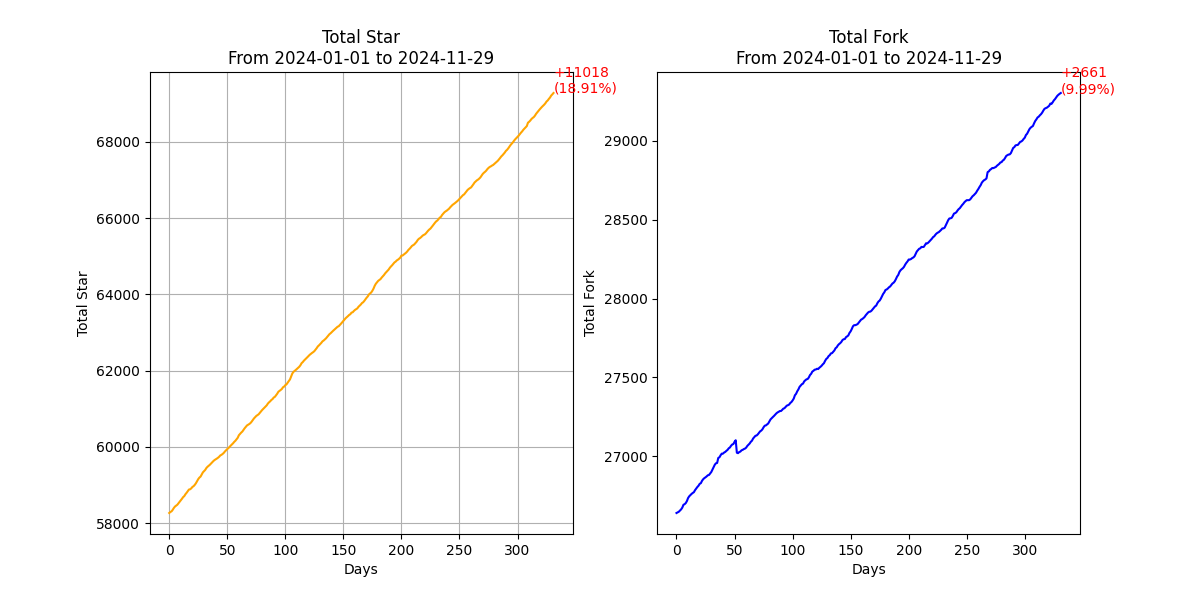
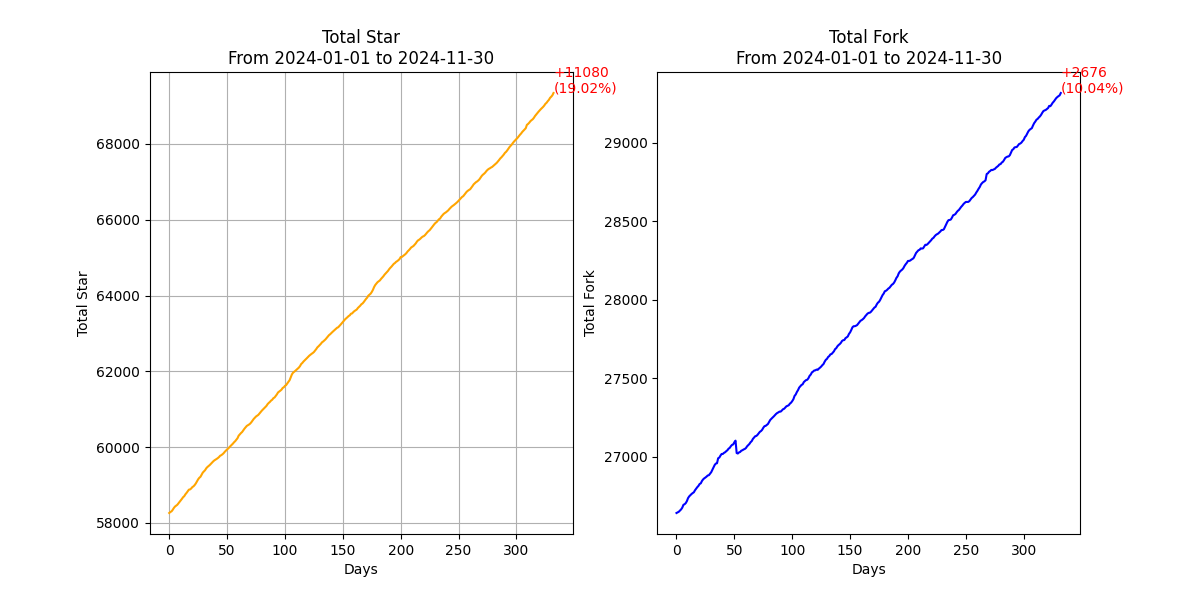
Update Espressif Systems Github Star Rank - 2024-11-30

diff --git a/README.md b/README.md
@@ -1,6 +1,6 @@
-# Espressif Systems Github Star Rank 2024-11-29
+# Espressif Systems Github Star Rank 2024-11-30
 
-## Total Star 🌟: 69343, Total Fork 🌳: 29317
+## Total Star 🌟: 69374, Total Fork 🌳: 29321
 
 [![Update Espressif Systems Github Star Rank](https://github.com/leeebo/espressif_star_counter/actions/workflows/update_rank.yml/badge.svg)](https://github.com/leeebo/espressif_star_counter/actions/workflows/update_rank.yml)
 
@@ -8,62 +8,62 @@
 
 | Repository | Stars | Forks | Description |
 |------------|-------|-------|-------------|
-| [esp-idf](https://github.com/espressif/esp-idf) | 13860 | 7323 | Espressif IoT Development Framework. Official development framework for Espressif SoCs. |
-| [arduino-esp32](https://github.com/espressif/arduino-esp32) | 13751 | 7433 | Arduino core for the ESP32 |
-| [esptool](https://github.com/espressif/esptool) | 5602 | 1386 | Espressif SoC serial bootloader utility |
+| [esp-idf](https://github.com/espressif/esp-idf) | 13868 | 7323 | Espressif IoT Development Framework. Official development framework for Espressif SoCs. |
+| [arduino-esp32](https://github.com/espressif/arduino-esp32) | 13754 | 7435 | Arduino core for the ESP32 |
+| [esptool](https://github.com/espressif/esptool) | 5604 | 1386 | Espressif SoC serial bootloader utility |
 | [ESP8266_RTOS_SDK](https://github.com/espressif/ESP8266_RTOS_SDK) | 3347 | 1565 | Latest ESP8266 SDK based on FreeRTOS, esp-idf style. |
 | [esp-iot-solution](https://github.com/espressif/esp-iot-solution) | 1991 | 788 | Espressif IoT Library. IoT Device Drivers, Documentations and Solutions. |
-| [esp32-camera](https://github.com/espressif/esp32-camera) | 1946 | 645 | None |
+| [esp32-camera](https://github.com/espressif/esp32-camera) | 1947 | 647 | None |
 | [esp-who](https://github.com/espressif/esp-who) | 1701 | 468 | Face detection and recognition framework |
-| [esp-adf](https://github.com/espressif/esp-adf) | 1564 | 691 | Espressif Audio Development Framework |
-| [vscode-esp-idf-extension](https://github.com/espressif/vscode-esp-idf-extension) | 1076 | 306 | Visual Studio Code extension for ESP-IDF projects |
+| [esp-adf](https://github.com/espressif/esp-adf) | 1565 | 691 | Espressif Audio Development Framework |
+| [vscode-esp-idf-extension](https://github.com/espressif/vscode-esp-idf-extension) | 1077 | 306 | Visual Studio Code extension for ESP-IDF projects |
 | [ESP8266_NONOS_SDK](https://github.com/espressif/ESP8266_NONOS_SDK) | 931 | 536 | ESP8266 nonOS SDK |
-| [esp-at](https://github.com/espressif/esp-at) | 916 | 833 | AT application for ESP32/ESP32-C2/ESP32-C3/ESP32-C6/ESP8266 |
-| [esp-drone](https://github.com/espressif/esp-drone) | 833 | 243 | Mini Drone/Quadcopter Firmware for ESP32 and ESP32-S Series SoCs. |
+| [esp-at](https://github.com/espressif/esp-at) | 917 | 833 | AT application for ESP32/ESP32-C2/ESP32-C3/ESP32-C6/ESP8266 |
+| [esp-drone](https://github.com/espressif/esp-drone) | 835 | 243 | Mini Drone/Quadcopter Firmware for ESP32 and ESP32-S Series SoCs. |
 | [esp-box](https://github.com/espressif/esp-box) | 811 | 191 | The ESP-BOX is a new generation AIoT development platform released by Espressif Systems. |
 | [esp-mdf](https://github.com/espressif/esp-mdf) | 780 | 253 | Espressif Mesh Development Framework, limited maintain, recommend to use https://github.com/espressif/esp-mesh-lite |
-| [kicad-libraries](https://github.com/espressif/kicad-libraries) | 775 | 109 | KiCad libraries for Espressif SoCs, modules, and DevKits. |
+| [kicad-libraries](https://github.com/espressif/kicad-libraries) | 776 | 109 | KiCad libraries for Espressif SoCs, modules, and DevKits. |
 | [ESP8266_MP3_DECODER](https://github.com/espressif/ESP8266_MP3_DECODER) | 745 | 190 | A demo that should be run with ESP8266 Non-OS SDK |
-| [esp-csi](https://github.com/espressif/esp-csi) | 722 | 111 | Applications based on Wi-Fi CSI (Channel state information), such as indoor positioning, human detection |
+| [esp-csi](https://github.com/espressif/esp-csi) | 723 | 111 | Applications based on Wi-Fi CSI (Channel state information), such as indoor positioning, human detection |
 | [esp-hosted](https://github.com/espressif/esp-hosted) | 713 | 170 | Hosted Solution (Linux/MCU) with ESP32 (Wi-Fi + BT + BLE) |
 | [esp-matter](https://github.com/espressif/esp-matter) | 706 | 161 | Espressif's SDK for Matter |
 | [esp-apple-homekit-adk](https://github.com/espressif/esp-apple-homekit-adk) | 624 | 64 | This is a port for Apple's Open Source HomeKit ADK |
 | [esp-mqtt](https://github.com/espressif/esp-mqtt) | 614 | 258 | ESP32 mqtt component |
 | [esp-skainet](https://github.com/espressif/esp-skainet) | 589 | 134 | Espressif intelligent voice assistant |
 | [esp-dl](https://github.com/espressif/esp-dl) | 580 | 122 | Espressif deep-learning library for AIoT applications |
-| [esp-sr](https://github.com/espressif/esp-sr) | 577 | 106 | Speech recognition |
+| [esp-sr](https://github.com/espressif/esp-sr) | 578 | 106 | Speech recognition |
 | [esp-homekit-sdk](https://github.com/espressif/esp-homekit-sdk) | 569 | 109 | None |
+| [esp32-nesemu](https://github.com/espressif/esp32-nesemu) | 551 | 173 | Proof-of-concept NES emulator for the ESP32 |
 | [esp-now](https://github.com/espressif/esp-now) | 550 | 96 | A connectionless Wi-Fi communication protocol |
-| [esp32-nesemu](https://github.com/espressif/esp32-nesemu) | 550 | 173 | Proof-of-concept NES emulator for the ESP32 |
 | [esp-dsp](https://github.com/espressif/esp-dsp) | 490 | 92 | DSP library for ESP-IDF |
 | [ESP8266_AT](https://github.com/espressif/ESP8266_AT) | 471 | 227 | This project is not maintained, please use https://github.com/espressif/esp-at. |
-| [esp-rainmaker](https://github.com/espressif/esp-rainmaker) | 466 | 154 | ESP RainMaker Agent for firmware development |
+| [esp-rainmaker](https://github.com/espressif/esp-rainmaker) | 467 | 154 | ESP RainMaker Agent for firmware development |
 | [rust-esp32-example](https://github.com/espressif/rust-esp32-example) | 447 | 36 | Example of Rust integration into an ESP-IDF project, for ESP32 series of chips |
-| [esp-tflite-micro](https://github.com/espressif/esp-tflite-micro) | 396 | 85 | TensorFlow Lite Micro for Espressif Chipsets |
+| [esp-tflite-micro](https://github.com/espressif/esp-tflite-micro) | 397 | 85 | TensorFlow Lite Micro for Espressif Chipsets |
 | [esp-serial-flasher](https://github.com/espressif/esp-serial-flasher) | 388 | 112 | Library for flashing Espressif SoCs from other MCUs. |
 | [esp-dev-kits](https://github.com/espressif/esp-dev-kits) | 369 | 184 | Docs, Schematics, Factory Firmwares for ESP Development Kits |
-| [openocd-esp32](https://github.com/espressif/openocd-esp32) | 362 | 132 | OpenOCD branch with ESP32 JTAG support |
+| [openocd-esp32](https://github.com/espressif/openocd-esp32) | 363 | 132 | OpenOCD branch with ESP32 JTAG support |
 | [esp-aliyun](https://github.com/espressif/esp-aliyun) | 340 | 151 | Aliyun Iotkit-embedded, support esp32 & esp8266. |
 | [esp-idf-template](https://github.com/espressif/esp-idf-template) | 335 | 200 | Template application for https://github.com/espressif/esp-idf |
-| [idf-eclipse-plugin](https://github.com/espressif/idf-eclipse-plugin) | 313 | 121 | Espressif-IDE (based on Eclipse CDT) for ESP-IDF CMake based projects 4.x and above |
-| [esp-usb-bridge](https://github.com/espressif/esp-usb-bridge) | 300 | 34 | USB to UART&JTAG bridge, implemented on ESP32-S2 or ESP32-S3 |
+| [idf-eclipse-plugin](https://github.com/espressif/idf-eclipse-plugin) | 313 | 121 | Espressif-IDE (ESP-IDF Eclipse Plugin) for ESP-IDF CMake based projects 5.x and above |
+| [esp-usb-bridge](https://github.com/espressif/esp-usb-bridge) | 301 | 34 | USB to UART&JTAG bridge, implemented on ESP32-S2 or ESP32-S3 |
 | [esp-va-sdk](https://github.com/espressif/esp-va-sdk) | 294 | 83 | Espressif's Voice Assistant SDK: Alexa, Google Voice Assistant, Google DialogFlow |
 | [esptool-js](https://github.com/espressif/esptool-js) | 291 | 108 | Javascript implementation of flasher tool for Espressif chips, running in web browser using WebSerial. |
 | [esp-aws-iot](https://github.com/espressif/esp-aws-iot) | 271 | 164 | AWS IoT SDK for ESP32 based chipsets |
-| [esp-bsp](https://github.com/espressif/esp-bsp) | 203 | 105 | Board support components for Espressif development boards |
+| [esp-bsp](https://github.com/espressif/esp-bsp) | 204 | 105 | Board support components for Espressif development boards |
 | [esp-idf-provisioning-android](https://github.com/espressif/esp-idf-provisioning-android) | 203 | 134 | Android Provisioning application for ESP-IDF Unified provisioning |
 | [esp32-doom](https://github.com/espressif/esp32-doom) | 200 | 39 | A proof-of-concept port of PrBoom to the ESP32. Needs psram hardware. |
 | [esp-protocols](https://github.com/espressif/esp-protocols) | 198 | 135 | Collection of ESP-IDF components related to networking protocols |
 | [ESP31_RTOS_SDK](https://github.com/espressif/ESP31_RTOS_SDK) | 188 | 58 | ESP31B SDK based on FreeRTOS. For ESP32 please see http://github.com/espressif/esp-idf |
 | [esp-azure](https://github.com/espressif/esp-azure) | 178 | 93 | SDK to connect ESP8266 and ESP32 to Microsoft Azure IoT services |
+| [esp-zigbee-sdk](https://github.com/espressif/esp-zigbee-sdk) | 178 | 31 | Espressif Zigbee SDK |
 | [esp-jumpstart](https://github.com/espressif/esp-jumpstart) | 177 | 58 | Jumpstart from concept to production |
-| [esp-zigbee-sdk](https://github.com/espressif/esp-zigbee-sdk) | 177 | 31 | Espressif Zigbee SDK |
 | [esp32-wifi-lib](https://github.com/espressif/esp32-wifi-lib) | 167 | 71 | ESP32 WiFi stack precompiled libraries |
 | [esp-iot-bridge](https://github.com/espressif/esp-iot-bridge) | 165 | 54 | A smart bridge to make both ESP and the other MCU or smart device can access the Internet. |
 | [esp-gdbstub](https://github.com/espressif/esp-gdbstub) | 162 | 38 | None |
 | [idf-extra-components](https://github.com/espressif/idf-extra-components) | 153 | 93 | Additional components for ESP-IDF, maintained by Espressif |
 | [esp32-arduino-lib-builder](https://github.com/espressif/esp32-arduino-lib-builder) | 152 | 170 | None |
-| [esp-nn](https://github.com/espressif/esp-nn) | 145 | 24 | Optimised Neural Network functions for Espressif chipsets |
+| [esp-nn](https://github.com/espressif/esp-nn) | 144 | 24 | Optimised Neural Network functions for Espressif chipsets |
 | [esp-google-iot](https://github.com/espressif/esp-google-iot) | 143 | 44 | Google Cloud IoT SDK as an ESP-IDF Component |
 | [esp-idf-provisioning-ios](https://github.com/espressif/esp-idf-provisioning-ios) | 137 | 63 | None |
 | [esp-mesh-lite](https://github.com/espressif/esp-mesh-lite) | 135 | 23 | A lite version Wi-Fi Mesh, each node can access the network over the IP layer. |
@@ -85,10 +85,10 @@
 | [esp32c3-direct-boot-example](https://github.com/espressif/esp32c3-direct-boot-example) | 69 | 18 | Example of ESP32-C3 (rev. 3 and later) "direct boot" feature. |
 | [esp8266-nonos-sample-code](https://github.com/espressif/esp8266-nonos-sample-code) | 66 | 41 | None |
 | [esp-adf-libs](https://github.com/espressif/esp-adf-libs) | 61 | 41 | None |
+| [esp-brookesia](https://github.com/espressif/esp-brookesia) | 59 | 10 | ESP-Brookesia is a human-machine interaction development framework designed for AIoT devices. |
 | [esp-moonlight](https://github.com/espressif/esp-moonlight) | 59 | 35 | None |
-| [esp-brookesia](https://github.com/espressif/esp-brookesia) | 58 | 10 | ESP-Brookesia is a human-machine interaction development framework designed for AIoT devices. |
 | [freertos-gdb](https://github.com/espressif/freertos-gdb) | 58 | 9 | Python module for operating with freeRTOS kernel objects in GDB |
-| [svd](https://github.com/espressif/svd) | 57 | 2 | SVD files for Espressif devices |
+| [svd](https://github.com/espressif/svd) | 58 | 2 | SVD files for Espressif devices |
 | [openocd-on-esp32](https://github.com/espressif/openocd-on-esp32) | 56 | 6 | OpenOCD port running on ESP32-S3 microcontrollers |
 | [xtensa-isa-doc](https://github.com/espressif/xtensa-isa-doc) | 51 | 4 | None |
 | [esp-rainmaker-ios](https://github.com/espressif/esp-rainmaker-ios) | 48 | 25 | ESP RainMaker iOS app sources |
@@ -126,9 +126,9 @@
 | [esp32c3-bt-lib](https://github.com/espressif/esp32c3-bt-lib) | 17 | 7 | ESP32-C3/S3 Bluetooth stack (below HCI layer) precompiled libraries |
 | [esp-afr-sdk](https://github.com/espressif/esp-afr-sdk) | 16 | 17 | Espressif Base SDK for (Amazon) FreeRTOS |
 | [esp32-quake](https://github.com/espressif/esp32-quake) | 16 | 0 | Quake for the ESP32-P4 evaluation board |
+| [idf-build-apps](https://github.com/espressif/idf-build-apps) | 16 | 6 | Tool to build multiple IDF applications in CI |
 | [idf-web-ide](https://github.com/espressif/idf-web-ide) | 16 | 5 | cloud/ desktop IDE for ESP-IDF based on Eclipse Theia |
 | [esp-rom-elfs](https://github.com/espressif/esp-rom-elfs) | 15 | 3 | Espressif ROM binaries |
-| [idf-build-apps](https://github.com/espressif/idf-build-apps) | 15 | 6 | Tool to build multiple IDF applications in CI |
 | [kconfig-frontends](https://github.com/espressif/kconfig-frontends) | 15 | 9 | Fork of kconfig-frontends project with some modifications for use with ESP-IDF |
 | [qrcode-demo](https://github.com/espressif/qrcode-demo) | 15 | 4 | QR code recognition example |
 | [esp-hal-components](https://github.com/espressif/esp-hal-components) | 14 | 6 | HAL (hardware abstraction layer) components for Espressif chips |

diff --git a/rank_history/esp_rank_2024-11-29.md b/rank_history/esp_rank_2024-11-29.md
@@ -1,17 +1,19 @@
 # Espressif Systems Github Star Rank 2024-11-29
 
-## Total Star 🌟: 69333, Total Fork 🌳: 29314
+## Total Star 🌟: 69343, Total Fork 🌳: 29317
 
 [![Update Espressif Systems Github Star Rank](https://github.com/leeebo/espressif_star_counter/actions/workflows/update_rank.yml/badge.svg)](https://github.com/leeebo/espressif_star_counter/actions/workflows/update_rank.yml)
 
+![](stats/stats_total_star_fork_2024.png)
+
 | Repository | Stars | Forks | Description |
 |------------|-------|-------|-------------|
-| [esp-idf](https://github.com/espressif/esp-idf) | 13855 | 7323 | Espressif IoT Development Framework. Official development framework for Espressif SoCs. |
+| [esp-idf](https://github.com/espressif/esp-idf) | 13860 | 7323 | Espressif IoT Development Framework. Official development framework for Espressif SoCs. |
 | [arduino-esp32](https://github.com/espressif/arduino-esp32) | 13751 | 7433 | Arduino core for the ESP32 |
-| [esptool](https://github.com/espressif/esptool) | 5601 | 1386 | Espressif SoC serial bootloader utility |
+| [esptool](https://github.com/espressif/esptool) | 5602 | 1386 | Espressif SoC serial bootloader utility |
 | [ESP8266_RTOS_SDK](https://github.com/espressif/ESP8266_RTOS_SDK) | 3347 | 1565 | Latest ESP8266 SDK based on FreeRTOS, esp-idf style. |
-| [esp-iot-solution](https://github.com/espressif/esp-iot-solution) | 1990 | 787 | Espressif IoT Library. IoT Device Drivers, Documentations and Solutions. |
-| [esp32-camera](https://github.com/espressif/esp32-camera) | 1947 | 645 | None |
+| [esp-iot-solution](https://github.com/espressif/esp-iot-solution) | 1991 | 788 | Espressif IoT Library. IoT Device Drivers, Documentations and Solutions. |
+| [esp32-camera](https://github.com/espressif/esp32-camera) | 1946 | 645 | None |
 | [esp-who](https://github.com/espressif/esp-who) | 1701 | 468 | Face detection and recognition framework |
 | [esp-adf](https://github.com/espressif/esp-adf) | 1564 | 691 | Espressif Audio Development Framework |
 | [vscode-esp-idf-extension](https://github.com/espressif/vscode-esp-idf-extension) | 1076 | 306 | Visual Studio Code extension for ESP-IDF projects |
@@ -27,7 +29,7 @@
 | [esp-matter](https://github.com/espressif/esp-matter) | 706 | 161 | Espressif's SDK for Matter |
 | [esp-apple-homekit-adk](https://github.com/espressif/esp-apple-homekit-adk) | 624 | 64 | This is a port for Apple's Open Source HomeKit ADK |
 | [esp-mqtt](https://github.com/espressif/esp-mqtt) | 614 | 258 | ESP32 mqtt component |
-| [esp-skainet](https://github.com/espressif/esp-skainet) | 589 | 133 | Espressif intelligent voice assistant |
+| [esp-skainet](https://github.com/espressif/esp-skainet) | 589 | 134 | Espressif intelligent voice assistant |
 | [esp-dl](https://github.com/espressif/esp-dl) | 580 | 122 | Espressif deep-learning library for AIoT applications |
 | [esp-sr](https://github.com/espressif/esp-sr) | 577 | 106 | Speech recognition |
 | [esp-homekit-sdk](https://github.com/espressif/esp-homekit-sdk) | 569 | 109 | None |
@@ -39,7 +41,7 @@
 | [rust-esp32-example](https://github.com/espressif/rust-esp32-example) | 447 | 36 | Example of Rust integration into an ESP-IDF project, for ESP32 series of chips |
 | [esp-tflite-micro](https://github.com/espressif/esp-tflite-micro) | 396 | 85 | TensorFlow Lite Micro for Espressif Chipsets |
 | [esp-serial-flasher](https://github.com/espressif/esp-serial-flasher) | 388 | 112 | Library for flashing Espressif SoCs from other MCUs. |
-| [esp-dev-kits](https://github.com/espressif/esp-dev-kits) | 368 | 184 | Docs, Schematics, Factory Firmwares for ESP Development Kits |
+| [esp-dev-kits](https://github.com/espressif/esp-dev-kits) | 369 | 184 | Docs, Schematics, Factory Firmwares for ESP Development Kits |
 | [openocd-esp32](https://github.com/espressif/openocd-esp32) | 362 | 132 | OpenOCD branch with ESP32 JTAG support |
 | [esp-aliyun](https://github.com/espressif/esp-aliyun) | 340 | 151 | Aliyun Iotkit-embedded, support esp32 & esp8266. |
 | [esp-idf-template](https://github.com/espressif/esp-idf-template) | 335 | 200 | Template application for https://github.com/espressif/esp-idf |
@@ -72,7 +74,7 @@
 | [esp-insights](https://github.com/espressif/esp-insights) | 105 | 29 | ESP Insights: A remote diagnostics/observability framework for connected devices |
 | [esp-rainmaker-android](https://github.com/espressif/esp-rainmaker-android) | 105 | 61 | ESP RainMaker Android app sources |
 | [idf-installer](https://github.com/espressif/idf-installer) | 102 | 21 | ESP IDF Windows Installer |
-| [pytest-embedded](https://github.com/espressif/pytest-embedded) | 93 | 26 | A pytest plugin that designed for embedded testing |
+| [pytest-embedded](https://github.com/espressif/pytest-embedded) | 93 | 27 | A pytest plugin that designed for embedded testing |
 | [usb-pids](https://github.com/espressif/usb-pids) | 91 | 138 | Customer-allocated USB PIDs under the Espressif VID |
 | [esp-lwip](https://github.com/espressif/esp-lwip) | 85 | 130 | Fork of lwIP (https://savannah.nongnu.org/projects/lwip/) with ESP-IDF specific patches |
 | [esp-idf-cxx](https://github.com/espressif/esp-idf-cxx) | 80 | 14 | C++ wrapper classes for ESP-IDF components. |
@@ -140,9 +142,9 @@
 | [esp-idf-sbom](https://github.com/espressif/esp-idf-sbom) | 12 | 3 | ESP-IDF Software Bill of Materials Generation Tool |
 | [esp-toolchain-docs](https://github.com/espressif/esp-toolchain-docs) | 12 | 5 | Repository with documentation related to toolchains and debuggers maintained by Espressif |
 | [esp32-alink](https://github.com/espressif/esp32-alink) | 12 | 13 | This is a porting of alink in esp32, it's just a  component, you can use it as submodule in your project. Please refer to esp32-alink-demo. |
+| [developer-portal](https://github.com/espressif/developer-portal) | 11 | 24 | Developer Portal |
 | [gh-esp-test-template](https://github.com/espressif/gh-esp-test-template) | 11 | 11 | ESP Project Testing Template (CI Project Template/Demo) |
 | [conventional-precommit-linter](https://github.com/espressif/conventional-precommit-linter) | 10 | 0 | Pre-commit hook script for linting conventional commit style |
-| [developer-portal](https://github.com/espressif/developer-portal) | 10 | 24 | Developer Portal |
 | [esp8266-dual-cloud](https://github.com/espressif/esp8266-dual-cloud) | 10 | 12 | esp8266 dual cloud support demo, now support alink + joylink. |
 | [idf-python-wheels](https://github.com/espressif/idf-python-wheels) | 10 | 9 | Build Python Wheels for Offline and Online installation of ESP-IDF. Online installation is using Espressif's PyPI |
 | [xtensa-overlays](https://github.com/espressif/xtensa-overlays) | 10 | 8 | Configuration overlays of Xtensa cores used by Espressif. These overlays are applied when building GCC, Binutils, GDB, Newlib. |
@@ -181,6 +183,7 @@
 | [idf_py_exe_tool](https://github.com/espressif/idf_py_exe_tool) | 3 | 2 | idf.py.exe, wrapper tool to invoke idf.py on Windows |
 | [esp-ble-mesh-lib](https://github.com/espressif/esp-ble-mesh-lib) | 2 | 2 | Pre-compiled libraries for ESP BLE Mesh v1.1 |
 | [esp-flash-drivers](https://github.com/espressif/esp-flash-drivers) | 2 | 2 | Project to hold 3rd party flash drivers |
+| [esp-gmf](https://github.com/espressif/esp-gmf) | 2 | 0 | Espressif General Multimedia Framework (ESP-GMF) |
 | [esp-idf-panic-decoder](https://github.com/espressif/esp-idf-panic-decoder) | 2 | 1 | None |
 | [esp-rainmaker-custom-development](https://github.com/espressif/esp-rainmaker-custom-development) | 2 | 0 | ESP RainMaker Custom Development |
 | [example_components](https://github.com/espressif/example_components) | 2 | 8 | None |
@@ -204,7 +207,6 @@
 | [xtensa-dynconfig](https://github.com/espressif/xtensa-dynconfig) | 1 | 0 | Configuration plugin generator for the GNU xtensa toolchain |
 | [actions-internal-test](https://github.com/espressif/actions-internal-test) | 0 | 0 | Private internal test repo for Espressif's GitHub Actions |
 | [dependency-driven-ci-action](https://github.com/espressif/dependency-driven-ci-action) | 0 | 0 | GitHub Action to build & test your ESP-IDF projects based on file changes |
-| [esp-gmf](https://github.com/espressif/esp-gmf) | 0 | 0 | None |
 | [esp-hosted-mcu](https://github.com/espressif/esp-hosted-mcu) | 0 | 0 | None |
 | [esp-idf-sbom-action](https://github.com/espressif/esp-idf-sbom-action) | 0 | 1 | None |
 | [esp-idf-size-test](https://github.com/espressif/esp-idf-size-test) | 0 | 0 | None |
